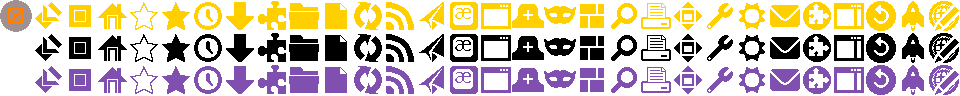
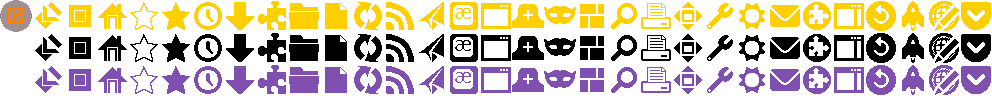
fifth and last part of syncing LCARStrek with Firefox 38 windows theme changes (includes addition of pocket button)

diff --git a/LCARStrek/browser/browser.css b/LCARStrek/browser/browser.css
@@ -497,8 +497,8 @@ menuitem.bookmark-item {
           #preferences-button, #privatebrowsing-button, #save-page-button, #switch-to-metro-button, #add-ons-button,
           #history-panelmenu, #nav-bar-overflow-button, #PanelUI-menu-button, #characterencoding-button,
           #email-link-button, #sidebar-button, #zoom-out-button, #zoom-reset-button, #zoom-in-button, #cut-button,
-          #copy-button, #paste-button, #e10s-button, #panic-button, #web-apps-button, #webide-button),
-
+          #copy-button, #paste-button, #e10s-button, #panic-button, #web-apps-button, #webide-button, #loop-button,
+          #pocket-button),
 #bookmarks-menu-button > .toolbarbutton-menubutton-dropmarker > .dropmarker-icon {
   list-style-image: url("chrome://browser/skin/ToolbarFx.png");
 }
@@ -944,6 +944,15 @@ menuitem.bookmark-item {
   -moz-image-region: rect(18px, 738px, 36px, 720px);
 }
 
+#pocket-button[cui-areatype="toolbar"] {
+  -moz-image-region: rect(0, 774px, 18px, 756px);
+}
+
+#pocket-button[cui-areatype="toolbar"]:hover,
+#pocket-button[cui-areatype="toolbar"][open] {
+  -moz-image-region: rect(18px, 774px, 36px, 756px);
+}
+
 /* === END toolbarbuttons.inc.css === */
 
 /* === BEGIN menupanel.inc.css === */
@@ -963,14 +972,16 @@ toolbaritem[sdkstylewidget="true"] > toolbarbutton,
           #preferences-button, #privatebrowsing-button, #save-page-button, #switch-to-metro-button, #add-ons-button,
           #history-panelmenu, #nav-bar-overflow-button, #PanelUI-menu-button, #characterencoding-button,
           #email-link-button, #sidebar-button, #zoom-out-button, #zoom-reset-button, #zoom-in-button, #cut-button,
-          #copy-button, #paste-button, #e10s-button, #panic-button, #web-apps-button, #webide-button)[cui-areatype="menu-panel"],
+          #copy-button, #paste-button, #e10s-button, #panic-button, #web-apps-button, #webide-button, #loop-button,
+          #pocket-button)[cui-areatype="menu-panel"],
 toolbarpaletteitem[place="palette"] > :-moz-any(#back-button, #forward-button, #home-button, #print-button, #downloads-button, #bookmarks-menu-button,
           #new-tab-button, #new-window-button, #fullscreen-button, #sync-button, #feed-button, #tabview-button,
           #social-share-button, #open-file-button, #find-button, #developer-button,
           #preferences-button, #privatebrowsing-button, #save-page-button, #switch-to-metro-button, #add-ons-button,
           #history-panelmenu, #nav-bar-overflow-button, #PanelUI-menu-button, #characterencoding-button,
           #email-link-button, #sidebar-button, #zoom-out-button, #zoom-reset-button, #zoom-in-button, #cut-button,
-          #copy-button, #paste-button, #e10s-button, #panic-button, #web-apps-button, #webide-button) {
+          #copy-button, #paste-button, #e10s-button, #panic-button, #web-apps-button, #webide-button, #loop-button,
+                                                #pocket-button) {
   list-style-image: var(--menupanel-list-style-image);
 }
 
@@ -1275,6 +1286,15 @@ toolbarpaletteitem[place="palette"] > #webide-button {
 #webide-button[cui-areatype="menu-panel"]:hover,
 toolbarpaletteitem[place="palette"] > #webide-button:hover {
   -moz-image-region: rect(32px, 960px, 64px, 928px);
+}
+
+#pocket-button[cui-areatype="menu-panel"],
+toolbarpaletteitem[place="palette"] > #pocket-button {
+  -moz-image-region: rect(0px, 992px, 32px, 960px);
+}
+
+#pocket-button[cui-areatype="menu-panel"][panel-multiview-anchor=true] {
+  -moz-image-region: rect(32px, 992px, 64px, 960px);
 }
 
 toolbaritem[sdkstylewidget="true"] > toolbarbutton {
@@ -3557,6 +3577,12 @@ notification[value="loop-sharing-notification"] .messageImage {
 #BMB_readingList {
   list-style-image: url("chrome://browser/skin/readinglist/readinglist-icon.svg");
   -moz-image-region: auto;
+}
+
+#panelMenu_pocket,
+#menu_pocket,
+#BMB_pocket {
+  list-style-image: url("chrome://browser/content/pocket/panels/img/pocketmenuitem16.png");
 }
 
 /* ::::: Keyboard UI Panel ::::: */

diff --git a/LCARStrek/browser/customizableui/panelUIOverlay.css b/LCARStrek/browser/customizableui/panelUIOverlay.css
@@ -222,6 +222,11 @@ panelmultiview[nosubviews=true] > .panel-viewcontainer > .panel-viewstack > .pan
   max-width: 30em;
 }
 
+/* Bug 1164419 - increase Pocket panel size to accomidate wider Russian text. */
+panelmultiview[mainViewId=PanelUI-pocketView] > .panel-viewcontainer > .panel-viewstack > .panel-mainview:not([panelid="PanelUI-popup"]) {
+  max-width: 33em; /* standaloneSubviewWidth + 3 */
+}
+
 panelview:not([mainview]) .toolbarbutton-text,
 .cui-widget-panel toolbarbutton > .toolbarbutton-text {
   text-align: start;
@@ -230,6 +235,11 @@ panelview:not([mainview]) .toolbarbutton-text,
 
 .cui-widget-panel > .panel-arrowcontainer > .panel-arrowcontent {
   padding: 0;
+}
+
+.cui-widget-panel[viewId="PanelUI-pocketView"] > .panel-arrowcontainer > .panel-arrowcontent {
+  padding-top: 0;
+  padding-bottom: 0;
 }
 
 .cui-widget-panel.cui-widget-panelWithFooter > .panel-arrowcontainer > .panel-arrowcontent {
@@ -1129,7 +1139,9 @@ menuitem[checked="true"].subviewbutton > .menu-iconic-left {
 #customizationui-widget-multiview > .panel-viewcontainer,
 #customizationui-widget-multiview > .panel-viewcontainer > .panel-viewstack,
 #PanelUI-panicView > .panel-subview-body,
-#PanelUI-panicView {
+#PanelUI-panicView,
+#PanelUI-pocketView > .panel-subview-body,
+#PanelUI-pocketView {
   overflow: visible;
   color: #FF9F00;
 }

diff --git a/LCARStrek/browser/preferences/in-content/preferences.css b/LCARStrek/browser/preferences/in-content/preferences.css
@@ -343,6 +343,9 @@ description > html|a {
 #telemetryLearnMore,
 #FHRLearnMore,
 #crashReporterLearnMore {
+  /* provide some margin between the links and the label text */
+  /* !important is needed to override the rules defined in common.css */
+  -moz-margin-start: 20px !important;
   /* center the links */
   margin-top: 8px;
   margin-bottom: 8px;
@@ -439,6 +442,17 @@ description > html|a {
 /**
  * End Dialog
  */
+
+/**
+ * Font dialog menulist fixes
+ */
+
+#defaultFontType,
+#serif,
+#sans-serif,
+#monospace {
+  min-width: 30ch;
+}
 
 /**
  * Sync migration
